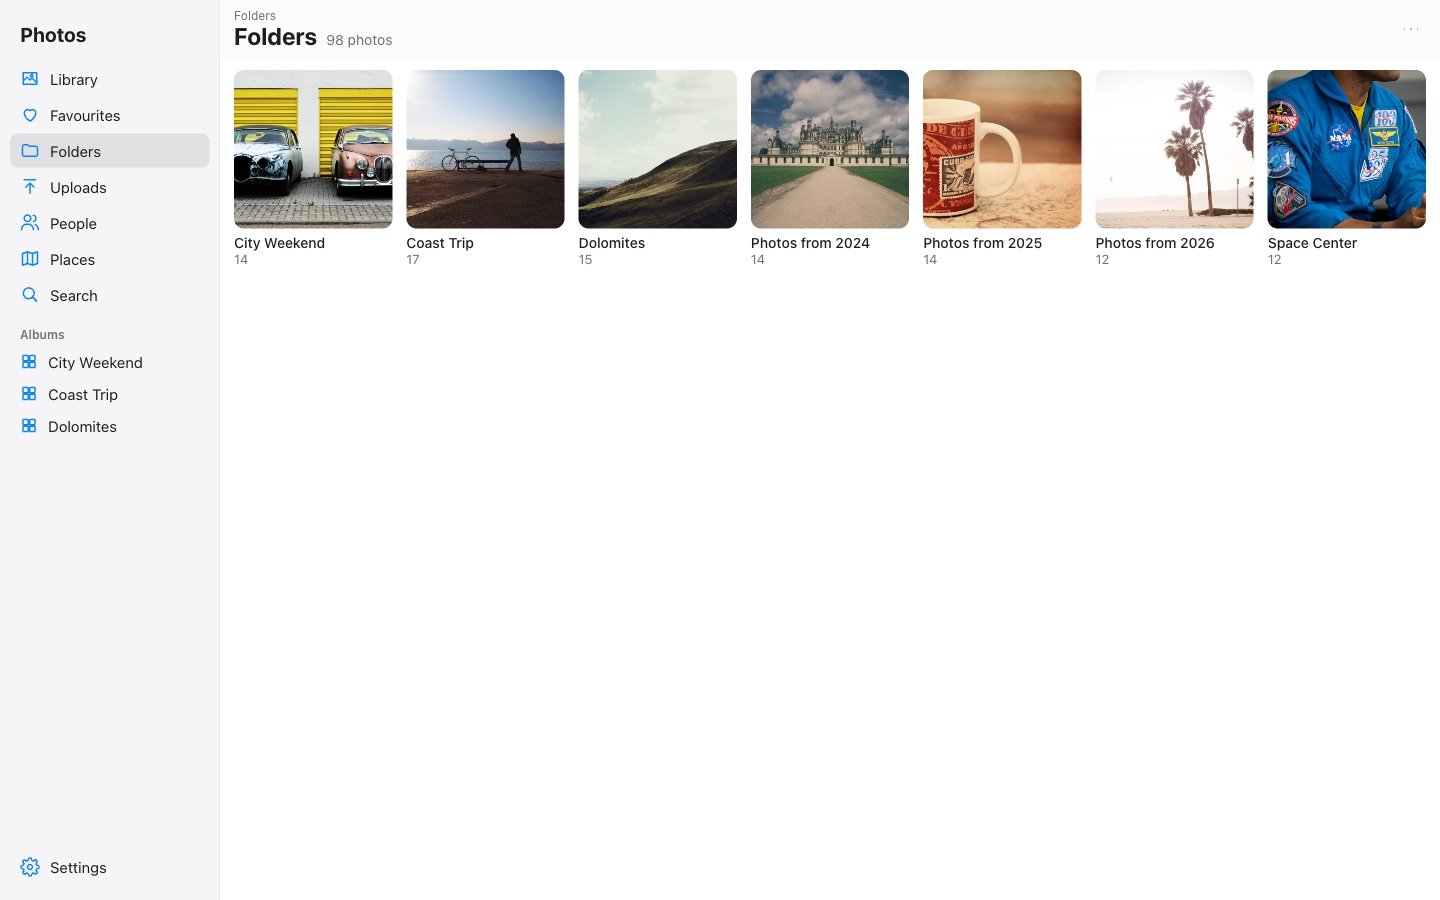
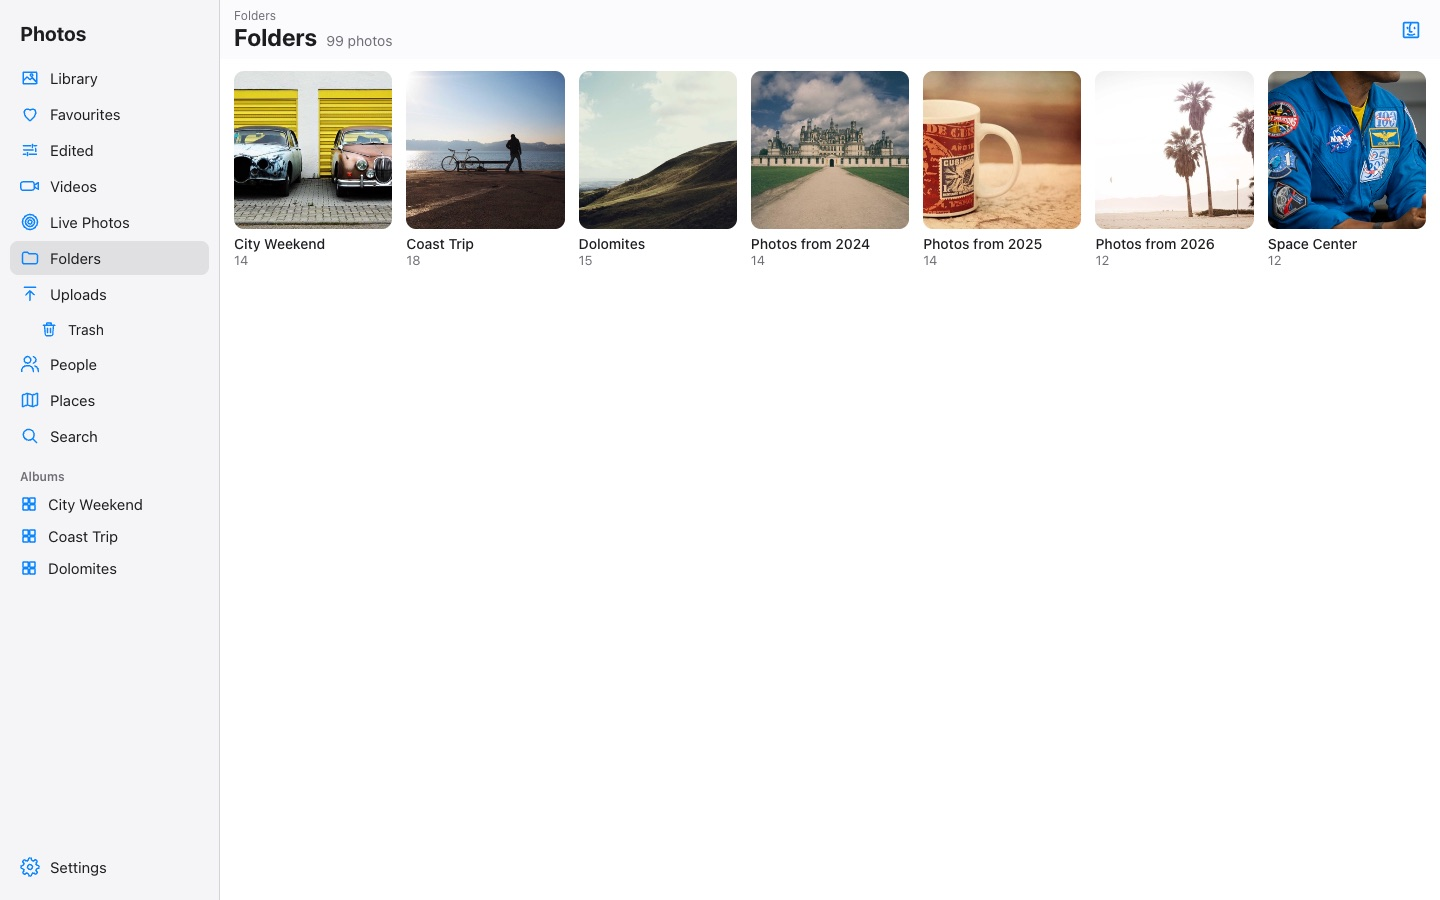
docs: new screenshots from the demo library (iPhone ones in the Simulator's Home Screen app); export offers edits only when something is edited
New: filter/sort, trimming, library and album export, duplicates, Adjust Date & Time, media
types and objects. The demo setup adds a short video (dated and trimmed through the app) and a
resized copy of a photo in the uploads (a duplicate). The export sheet hides With edits /
Originals / Both when nothing in it is edited, and the Live Photos option when there are none.

diff --git a/web/src/lib/components/MultiExportSheet.svelte b/web/src/lib/components/MultiExportSheet.svelte
@@ -107,7 +107,7 @@
 		const out: [string, string][] = [];
 		for (const a of assets) {
 			const base = a.name.replace(/\.[^.]*$/, '');
-			if (content !== 'original' && isEdited(a)) {
+			if (edited && content !== 'original' && isEdited(a)) {
 				const ext = a.ev > 0 && a.dur == null ? (fmt === 'heic' ? 'heic' : 'jpg') : a.name.split('.').pop();
 				out.push([exportUrl(a.id, fmt), `${base}.${ext}`]);
 			} else out.push([originalUrl(a.id), a.name]);
@@ -166,7 +166,7 @@
 	function options(): ExportOptions {
 		return {
 			...(library ? { library: true } : albumList.length ? { albums: albumList.map((a) => a.id) } : { ids: assets.map((a) => a.id) }),
-			content,
+			content: edited ? content : 'original',
 			editFormat: fmt,
 			livePhotoVideo: withMotion,
 			sidecar,
@@ -218,25 +218,25 @@
 <div class="sheet" class:wide={!viaShare} role="dialog" aria-modal="true" aria-label="Export">
 	{#if phase === 'choose'}
 		<h3>Export {what}</h3>
-		<fieldset>
-			<legend>Photos and videos</legend>
-			<label><input type="radio" bind:group={content} value="edited" /> With edits</label>
-			<label><input type="radio" bind:group={content} value="original" /> Originals</label>
-			{#if !viaShare}
-				<label><input type="radio" bind:group={content} value="both" /> Both <span class="muted">(originals of edited items in an Originals folder)</span></label>
-			{/if}
-			{#if content !== 'original' && (pixelEdited || library || albumList.length)}
-				<div class="fmt">
-					<span class="muted">Edited photos as</span>
-					<label><input type="radio" bind:group={fmt} value="jpeg" /> JPEG</label>
-					<label><input type="radio" bind:group={fmt} value="heic" /> HEIC</label>
-				</div>
-			{/if}
-			{#if !library && !albumList.length}
-				<p class="note muted">{edited ? `${edited} edited (photo edits, adjusted dates, trims).` : 'None of these is edited.'}</p>
-			{/if}
-		</fieldset>
-		{#if live || library || albumList.length}
+		{#if edited}
+			<fieldset>
+				<legend>{edited} edited {edited === 1 ? 'item' : 'items'}</legend>
+				<label><input type="radio" bind:group={content} value="edited" /> With edits</label>
+				<label><input type="radio" bind:group={content} value="original" /> Originals</label>
+				{#if !viaShare}
+					<label><input type="radio" bind:group={content} value="both" /> Both <span class="muted">(originals of edited items in an Originals folder)</span></label>
+				{/if}
+				{#if content !== 'original' && pixelEdited}
+					<div class="fmt">
+						<span class="muted">Edited photos as</span>
+						<label><input type="radio" bind:group={fmt} value="jpeg" /> JPEG</label>
+						<label><input type="radio" bind:group={fmt} value="heic" /> HEIC</label>
+					</div>
+				{/if}
+				<p class="note muted">Photo edits, adjusted dates and video trims.</p>
+			</fieldset>
+		{/if}
+		{#if live}
 			<fieldset>
 				<legend>Live Photos</legend>
 				<label><input type="checkbox" bind:checked={withMotion} /> Include the video (.MOV next to the photo)</label>

diff --git a/README.md b/README.md
@@ -14,23 +14,29 @@ iPhone Home Screen app, reached privately over [Tailscale](https://tailscale.com
 | Desktop | iPhone |
 |---|---|
 | ![Library timeline on desktop](docs/screenshots/desktop-library.jpg) | ![Library timeline on iPhone](docs/screenshots/mobile-library.jpg) |
+| ![Filter and sort menu on desktop](docs/screenshots/desktop-filter.jpg) | ![Filter and sort menu on iPhone](docs/screenshots/mobile-filter.jpg) |
 | ![Photo viewer on desktop](docs/screenshots/desktop-viewer.jpg) | ![Photo viewer on iPhone](docs/screenshots/mobile-viewer.jpg) |
 | ![Photo editor on desktop](docs/screenshots/desktop-editor.jpg) | ![Photo editor on iPhone](docs/screenshots/mobile-editor.jpg) |
-| ![Albums on desktop](docs/screenshots/desktop-albums.jpg) | ![Albums on iPhone](docs/screenshots/mobile-albums.jpg) |
-| ![Search on desktop](docs/screenshots/desktop-search.jpg) | ![Selecting photos in an album on iPhone](docs/screenshots/mobile-select.jpg) |
-| ![Uploading by drag and drop on desktop](docs/screenshots/desktop-upload.jpg) | ![A folder on iPhone](docs/screenshots/mobile-folder.jpg) |
+| ![Trimming a video on desktop](docs/screenshots/desktop-trim.jpg) | ![Trimming a video on iPhone](docs/screenshots/mobile-trim.jpg) |
+| ![Albums and collections on desktop](docs/screenshots/desktop-albums.jpg) | ![Albums on iPhone](docs/screenshots/mobile-albums.jpg) |
+| ![Exporting the library: originals and edits, XMP sidecars, by month](docs/screenshots/desktop-export.jpg) | ![Exporting an album on iPhone](docs/screenshots/mobile-export.jpg) |
+| ![Exporting a selection on desktop](docs/screenshots/desktop-download.jpg) | ![Selecting photos by dragging a finger on iPhone](docs/screenshots/mobile-select.jpg) |
+| ![Duplicates on desktop](docs/screenshots/desktop-duplicates.jpg) | ![Adjust Date & Time on iPhone](docs/screenshots/mobile-date.jpg) |
+| ![Search on desktop](docs/screenshots/desktop-search.jpg) | ![The info sheet, swiped up on iPhone](docs/screenshots/mobile-info.jpg) |
+| ![Recognised objects on desktop](docs/screenshots/desktop-objects.jpg) | ![Media types and objects on iPhone](docs/screenshots/mobile-objects.jpg) |
+| ![A photo's recognised objects at the bottom of the info panel](docs/screenshots/desktop-viewer-objects.jpg) | ![Folders on iPhone](docs/screenshots/mobile-folder.jpg) |
 | ![People on desktop](docs/screenshots/desktop-people.jpg) | ![People on iPhone](docs/screenshots/mobile-people.jpg) |
 | ![The people in a photo, in the info panel](docs/screenshots/desktop-viewer-people.jpg) | ![Places by country and city on iPhone](docs/screenshots/mobile-places-list.jpg) |
 | ![Photos on a map on desktop](docs/screenshots/desktop-places.jpg) | ![Photos on a map on iPhone](docs/screenshots/mobile-places.jpg) |
-| ![Recognised objects on desktop](docs/screenshots/desktop-objects.jpg) | ![The info sheet, swiped up on iPhone](docs/screenshots/mobile-info.jpg) |
-| ![A photo's recognised objects at the bottom of the info panel](docs/screenshots/desktop-viewer-objects.jpg) | |
-| ![Downloading a selection with edits and Live Photo videos](docs/screenshots/desktop-download.jpg) | |
-| ![Folders on desktop](docs/screenshots/desktop-folders.jpg) | |
-| ![Settings on desktop](docs/screenshots/desktop-settings.jpg) | |
+| ![Uploading by drag and drop on desktop](docs/screenshots/desktop-upload.jpg) |  |
+| ![Folders on desktop](docs/screenshots/desktop-folders.jpg) |  |
+| ![Settings on desktop](docs/screenshots/desktop-settings.jpg) |  |
 
 Screenshots use the stock-photo demo library in [`demo/`](demo/) (the people are NASA astronauts in
 public-domain NASA photos; [credits](docs/screenshots/CREDITS.md));
-regenerate them with `demo/take-screenshots.sh`.
+regenerate them with `demo/take-screenshots.sh` (desktop; `PHONE=none KEEP=1` leaves the demo server
+running). The iPhone shots are taken in the iOS Simulator, in the app added to the Home Screen (not a
+Safari tab), with Local mode off; the phone editor shot is older (the Simulator has no WebGPU).
 
 ## What it does today
 
